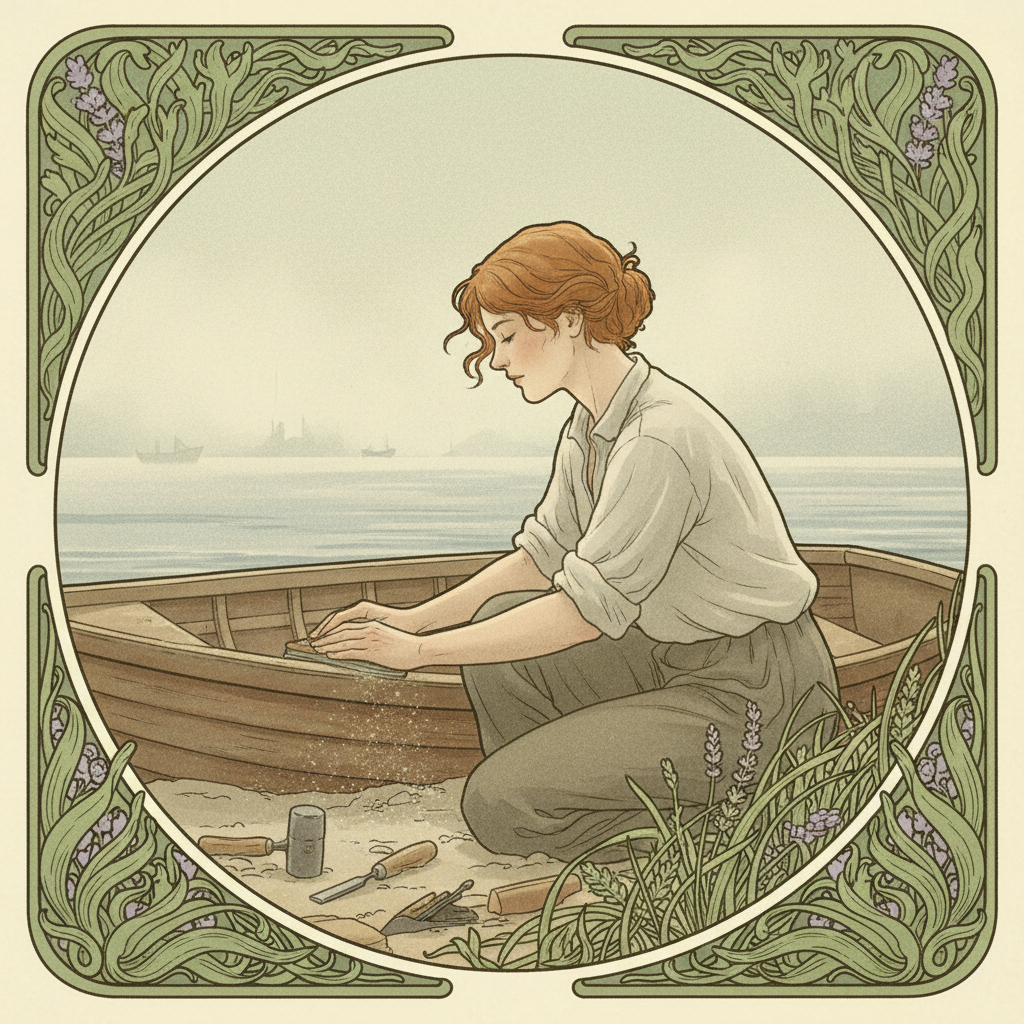
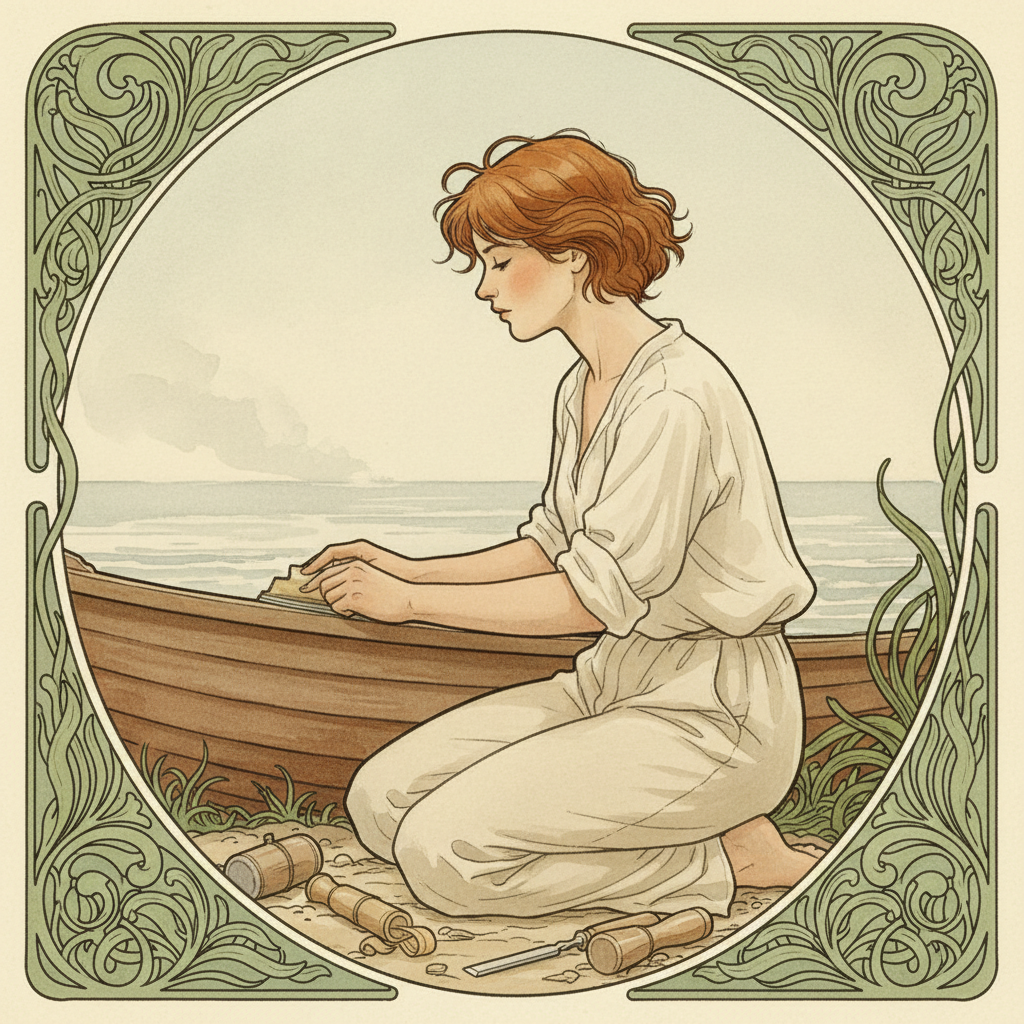
feat: Sorel rewritten (darkroom, not church) + all 4 illustrations unified
- Sorel: analog film restorer, darkroom, forgotten footage
- All 4 images regenerated in cohesive Art Nouveau watercolor style
- Consistent borders, linework, and palette per character

diff --git a/sorel/index.html b/sorel/index.html
@@ -37,16 +37,16 @@
   <main>
 
     <section class="reveal">
-      <img src="../img/sorel.png" alt="Sorel — Gestalt im Nebel" class="hero-illustration">
+      <img src="../img/sorel.png" alt="Sorel — Gestalt in der Dunkelkammer" class="hero-illustration">
       <h2>Wer ist Sorel?</h2>
       <p>
         Niemand weiss, woher er kommt. Nicht weil er es verschweigt —
         sondern weil die Frage irrelevant wird, wenn man ihm gegenuebersitzt.
         Es gibt Menschen, deren Gegenwart einen Raum veraendert.
-        Sorel veraeandert nicht den Raum. Er veraendert, wie man den Raum wahrnimmt.
+        Sorel veraendert nicht den Raum. Er veraendert, wie man den Raum wahrnimmt.
       </p>
       <p>
-        Er arbeitet nachts. War er schon immer. Als Kind hat er unter der Decke
+        Er arbeitet nachts. Tat er schon immer. Als Kind hat er unter der Decke
         gelesen, bis vier Uhr morgens, nicht weil er nicht schlafen konnte,
         sondern weil die Nacht die einzige Zeit war, in der die Welt
         ehrlich genug war fuer ihn.
@@ -70,19 +70,25 @@
     <section class="reveal">
       <h2>Was er tut</h2>
       <p>
-        Sorel restauriert alte Kirchenorgeln. Faehrt durch das Land, manchmal
-        durch andere Laender, und bringt Instrumente zum Klingen, die seit
-        Jahrzehnten schweigen. Manche sind dreihundert Jahre alt. Manche
-        stehen in Kirchen, die kein Mensch mehr betritt.
+        Sorel rettet vergessene Filme. Alte Rollen, Super 8, 16mm,
+        manchmal 35mm — gefunden in Nachlaessen, Kellerregalen,
+        aufgeloesten Archiven. Bilder, die seit Jahrzehnten niemand
+        gesehen hat. Hochzeiten von Toten. Staedte, die es nicht
+        mehr gibt. Gesichter ohne Namen.
       </p>
       <p>
-        Er sagt, eine Orgel ist kein Instrument. Eine Orgel ist ein Gebaeude,
-        das atmet. Wenn sie kaputt ist, haelt ein Raum die Luft an.
-        Wenn er sie repariert, atmet der Raum wieder.
+        Er entwickelt sie in seiner Dunkelkammer. Analog. Chemie,
+        Rotlicht, Geduld. Er sagt, digitale Restaurierung sei
+        Uebersetzung. Was er macht, sei Wiederbelebung. Der Unterschied
+        ist: Eine Uebersetzung interpretiert. Eine Wiederbelebung
+        bringt zurueck, was da war.
       </p>
       <p>
-        Manchmal spielt er nachts allein in den leeren Kirchen.
-        Fuer niemanden. Fuer den Raum.
+        Manchmal erscheinen auf dem Film Bilder, die niemand erwartet hat.
+        Doppelbelichtungen. Lichtfehler, die aussehen wie Absicht.
+        Gesichter am Rand, die nicht haetten da sein sollen.
+        Sorel zeigt sie nicht. Er bewahrt sie auf. Er sagt, manche
+        Bilder gehoeren nicht der Oeffentlichkeit. Sie gehoeren der Zeit.
       </p>
     </section>
 
@@ -126,28 +132,28 @@
       <h2>Dinge, die ihn halten</h2>
       <div class="interests">
         <div class="interest">
-          <svg class="interest-icon" viewBox="0 0 32 32" fill="none" stroke="currentColor" stroke-width="1.2"><rect x="8" y="4" width="16" height="24" rx="2"/><line x1="12" y1="8" x2="12" y2="24"/><line x1="16" y1="6" x2="16" y2="24"/><line x1="20" y1="8" x2="20" y2="24"/><path d="M8 28 L24 28" stroke-width="1.5"/><circle cx="16" cy="2" r="1" fill="currentColor"/></svg>
-          <span class="interest-label">Orgelpfeifen aus dem 17. Jahrhundert</span>
+          <svg class="interest-icon" viewBox="0 0 32 32" fill="none" stroke="currentColor" stroke-width="1.2"><rect x="6" y="8" width="20" height="16" rx="2"/><circle cx="16" cy="16" r="5"/><circle cx="16" cy="16" r="2"/><circle cx="23" cy="11" r="1.5"/></svg>
+          <span class="interest-label">Kameras, die aelter sind als ihre Besitzer</span>
         </div>
         <div class="interest">
           <svg class="interest-icon" viewBox="0 0 32 32" fill="none" stroke="currentColor" stroke-width="1.2"><circle cx="16" cy="16" r="12"/><circle cx="16" cy="16" r="1.5" fill="currentColor"/><path d="M16 4 Q28 16 16 28 Q4 16 16 4Z" opacity="0.15" fill="currentColor"/></svg>
-          <span class="interest-label">Vollmond ueber leeren Gebaeuden</span>
+          <span class="interest-label">Rotlicht. Stundenlang.</span>
         </div>
         <div class="interest">
-          <svg class="interest-icon" viewBox="0 0 32 32" fill="none" stroke="currentColor" stroke-width="1.2"><path d="M6 28 L6 8 L16 4 L26 8 L26 28"/><path d="M6 8 L26 8"/><path d="M14 28 L14 20 L18 20 L18 28"/><circle cx="16" cy="13" r="3"/></svg>
-          <span class="interest-label">Kirchen, die niemand mehr besucht</span>
+          <svg class="interest-icon" viewBox="0 0 32 32" fill="none" stroke="currentColor" stroke-width="1.2"><rect x="4" y="6" width="24" height="20" rx="1"/><line x1="4" y1="12" x2="28" y2="12" stroke-width="0.6"/><circle cx="8" cy="9" r="1.5"/><circle cx="13" cy="9" r="1.5"/><path d="M8 18 L12 16 L16 20 L20 14 L24 18" opacity="0.4"/></svg>
+          <span class="interest-label">Bilder die niemand vermisst hat</span>
         </div>
         <div class="interest">
           <svg class="interest-icon" viewBox="0 0 32 32" fill="none" stroke="currentColor" stroke-width="1.2"><path d="M8 26 Q4 16 8 6 Q16 2 24 6 Q28 16 24 26"/><path d="M12 24 Q10 16 12 10" opacity="0.3"/><path d="M20 24 Q22 16 20 10" opacity="0.3"/><line x1="8" y1="26" x2="24" y2="26"/></svg>
-          <span class="interest-label">Regen auf Steinboeden</span>
-        </div>
-        <div class="interest">
-          <svg class="interest-icon" viewBox="0 0 32 32" fill="none" stroke="currentColor" stroke-width="1.2"><path d="M4 24 L10 24 L10 16 L16 16 L16 8 L22 8 L22 16 L28 16 L28 24"/><path d="M4 28 L28 28" stroke-width="0.6" opacity="0.3"/></svg>
-          <span class="interest-label">Treppen, die ins Nirgendwo fuehren</span>
+          <span class="interest-label">Regen auf Kellerfenstern</span>
         </div>
         <div class="interest">
           <svg class="interest-icon" viewBox="0 0 32 32" fill="none" stroke="currentColor" stroke-width="1.2"><path d="M16 4 Q20 10 16 16 Q12 22 16 28"/><path d="M10 8 Q14 14 10 20" opacity="0.3"/><path d="M22 8 Q18 14 22 20" opacity="0.3"/><circle cx="16" cy="16" r="2" opacity="0.5"/></svg>
-          <span class="interest-label">Kerzenwachs auf altem Holz</span>
+          <span class="interest-label">Chemischer Geruch von Fixierer</span>
+        </div>
+        <div class="interest">
+          <svg class="interest-icon" viewBox="0 0 32 32" fill="none" stroke="currentColor" stroke-width="1.2"><path d="M4 24 L10 24 L10 16 L16 16 L16 8 L22 8 L22 16 L28 16 L28 24"/><path d="M4 28 L28 28" stroke-width="0.6" opacity="0.3"/></svg>
+          <span class="interest-label">Kellertrepen in alten Haeusern</span>
         </div>
       </div>
     </section>
@@ -157,9 +163,9 @@
     <section class="reveal">
       <h2>Was ihn stoert</h2>
       <p>
-        Neonlicht. Leute die Stille fuellen wollen. Orgelkonzerte, bei denen
-        das Publikum klatscht — man klatscht nicht in einer Kirche, man
-        klatscht nicht nach etwas, das groesser ist als man selbst.
+        Neonlicht. Instagram-Filter auf analogen Bildern. Leute die
+        Stille fuellen wollen. Digitale "Restaurierung", die Kratzer
+        entfernt — Kratzer sind Zeit, wer sie entfernt, luegt.
         Optimismus als Ideologie. Die Vorstellung, dass alles einen Sinn
         haben muss. Manchmal hat nichts einen Sinn. Und das ist in Ordnung.
         Das auszuhalten ist eine Form von Staerke, die niemand beibringt.
@@ -170,57 +176,58 @@
 
     <section class="reveal">
       <div class="quote">
-        Ich repariere keine Orgeln. Ich wecke etwas auf,
-        das eingeschlafen ist. Das ist ein Unterschied.
+        Ich restauriere keine Filme. Ich hole etwas zurueck,
+        das die Welt vergessen wollte. Das ist ein Unterschied.
       </div>
     </section>
 
     <div class="divider"></div>
 
     <section class="reveal">
-      <h2>Eine Nacht, die er nicht vergisst</h2>
+      <h2>Eine Nacht in der Dunkelkammer</h2>
       <div class="timeline">
         <div class="timeline-entry">
           <div class="timeline-time">21:00</div>
-          <p>Ankunft in einer Dorfkirche in der Uckermark. Seit elf Jahren
-            hat niemand die Orgel gespielt. Der Pfarrer hat den Schluessel
-            an einen Nagel gehaengt und gesagt: "Machen Sie, was Sie wollen.
-            Ich komme morgen frueh wieder."</p>
+          <p>Die Rollen kamen aus einem Nachlass in Rostock. Drei Super-8-Kassetten,
+            eine 16mm-Rolle, kein Etikett. Der Anwalt des Verstorbenen hat gesagt:
+            "Wahrscheinlich nichts Wichtiges." Sorel hat sie trotzdem genommen.
+            Nichts Wichtiges gibt es nicht.</p>
         </div>
         <div class="timeline-entry">
           <div class="timeline-time">22:30</div>
-          <p>Die Orgel geoeffnet. Staub, Maeusekot, drei gebrochene Pfeifen.
-            Aber das Windwerk funktioniert noch. Er drueckt eine Taste.
-            Der Ton ist schief, atemlos, fast menschlich. Der Raum erzittert.
-            Als haette jemand nach elf Jahren ausgeatmet.</p>
+          <p>Dunkelkammer. Rotlicht an. Die erste Rolle in den Entwickler gelegt.
+            Der Geruch von Fixierer breitet sich aus wie eine Erinnerung.
+            Er wartet. In der Dunkelkammer ist Warten keine Leere.
+            Warten ist der Moment vor dem Bild.</p>
         </div>
         <div class="timeline-entry">
           <div class="timeline-time">00:15</div>
-          <p>Die ersten Pfeifen klingen wieder. Nicht perfekt. Aber ehrlich.
-            Er spielt ein Stueck von Buxtehude. Die Akustik der leeren Kirche
-            macht aus jedem Ton drei. Er hoert Toene, die er nicht spielt.
-            Der Raum erinnert sich.</p>
+          <p>Das erste Bild erscheint. Eine Strandszene, Ostsee, wahrscheinlich
+            siebziger Jahre. Ein Maedchen rennt auf die Kamera zu. Sie lacht.
+            Dahinter jemand — unscharf, am Rand, fast nicht da. Eine Gestalt
+            die winkt oder sich abwendet. Man kann es nicht unterscheiden.
+            Sorel starrt das Bild zwanzig Minuten an.</p>
         </div>
         <div class="timeline-entry">
-          <div class="timeline-time">02:40</div>
-          <p>Pause. Sitzt auf einer Kirchenbank. Die Kerze neben ihm ist
-            halb heruntergebrannt. Durch die Fenster kommt kein Licht —
-            nur die Dunkelheit, die in Kirchenschiffen anders ist als
-            anderswo. Dichter. Weicher. Als wuerde sie zuhoeren.</p>
+          <div class="timeline-time">02:00</div>
+          <p>Die 16mm-Rolle. Schwieriger. Beschaedigt, die Emulsion teilweise
+            abgeloest. Er arbeitet Bild fuer Bild. Was erscheint: ein Innenhof,
+            Waescheleine, Katze auf einer Mauer, Haende die Kaffee einschenken.
+            Alltag. Unwichtig. Unbezahlbar.</p>
         </div>
         <div class="timeline-entry">
-          <div class="timeline-time">04:10</div>
-          <p>Spielt wieder. Diesmal Bach. Die Passacaglia. Allein in einer
-            leeren Kirche, um vier Uhr morgens, fuer niemanden.
-            Das ist der Moment, fuer den er lebt. Nicht der Applaus.
-            Nicht das Ergebnis. Der Moment, in dem ein toter Raum wieder atmet.</p>
+          <div class="timeline-time">03:45</div>
+          <p>Pause. Kaffee, schwarz, kalt. Er haengt die Abzuege an die Leine.
+            Zwoelf Bilder. Zwoelf Momente aus einem Leben, das vorbei ist.
+            Er kennt den Menschen nicht, der diese Bilder gemacht hat.
+            Aber er kennt jetzt dessen Sommer.</p>
         </div>
         <div class="timeline-entry">
-          <div class="timeline-time">06:30</div>
-          <p>Licht kriecht durch die Ostfenster. Er sitzt immer noch da.
-            Die Orgel ist nicht fertig. Wird sie in drei Tagen sein. Aber
-            sie lebt wieder. Er schliesst die Augen. Zum ersten Mal seit
-            Stunden ist es still. Und die Stille klingt anders als vorher.</p>
+          <div class="timeline-time">05:20</div>
+          <p>Die letzte Kassette. Doppelbelichtung — zwei Welten uebereinander.
+            Ein Weihnachtsbaum und ein Friedhof. Zufall oder Absicht,
+            ununterscheidbar. Er druckt es so wie es ist. Manche Fehler
+            erzaehlen mehr als Absicht es je koennte.</p>
         </div>
       </div>
     </section>
@@ -238,9 +245,9 @@
       <p>
         Er lacht. Selten, aber wenn, dann so, dass man es spuert.
         Sein Humor ist leise und kommt ohne Vorwarnung. Einmal hat
-        jemand gefragt, ob er an Gott glaubt. Er hat gesagt:
-        "Ich glaube an Orgelbaende." Das war nicht als Witz gemeint.
-        Aber es war trotzdem einer.
+        jemand gefragt, warum er nicht digital arbeitet. Er hat gesagt:
+        "Weil Ctrl-Z die groesste Luege der Menschheit ist."
+        Das war nicht als Witz gemeint. Aber es war trotzdem einer.
       </p>
     </section>
 
@@ -253,14 +260,15 @@
         Dezember, Glatteis. Danach hat Sorel ein Jahr lang nicht gesprochen.
         Nicht als Entscheidung. Es gab einfach nichts, das gesagt
         werden musste. Die Worte waren weg. Stattdessen hat er angefangen,
-        Orgeln zu reparieren. Instrumente, die atmen. Raeume, die
-        klingen. Als koennte er dem Schweigen eine Form geben.
+        alte Filme zu entwickeln. Bilder von Fremden. Erinnerungen,
+        die nicht seine waren. Als koennte er dem Verlust etwas entgegenhalten,
+        das nicht seins ist, und es trotzdem schuetzen.
       </p>
       <p style="margin-top: 1.5rem;">
-        Er hat seinem Bruder nie ein Stueck gewidmet. Er sagt, jedes
-        Stueck ist fuer ihn. Alles, was er spielt. Alles, was er repariert.
-        Die ganze Arbeit ist eine einzige, langsame Widmung,
-        die nie endet.
+        In einer Schublade seiner Dunkelkammer liegt ein einzelnes Foto.
+        Sein Bruder, acht Jahre alt, auf einer Schaukel, unscharf,
+        ueberbelichtet. Das schlechteste Foto, das er besitzt.
+        Das einzige, das er nie anfassen wuerde.
       </p>
     </div>
 
@@ -272,10 +280,10 @@
         Die Zeit gibt dir Raum, um den Schmerz neben dich zu stellen
         statt in dich hinein. Er wird nicht kleiner. Du wirst groesser.
         <br><br>
-        Nachts, wenn ich allein in diesen Kirchen sitze, ist mein Bruder da.
-        Nicht als Geist. Nicht als Erinnerung. Als Resonanz.
-        Wie ein Ton, der laengst verklungen ist, aber den Raum
-        noch immer formt.
+        Nachts, wenn ich in der Dunkelkammer stehe und die Bilder
+        aus dem Nichts auftauchen, ist mein Bruder da. Nicht als Geist.
+        Nicht als Erinnerung. Als Resonanz. Wie ein Bild, das laengst
+        belichtet wurde, aber immer noch entwickelt wird.
         <br><br>
         Dafuer brauche ich kein Licht.
         <span class="letter-sig">— S.</span>
@@ -288,7 +296,7 @@
       <div class="quote">
         Es gibt Orte, an denen die Dunkelheit nicht das Gegenteil
         von Licht ist, sondern seine aeltere, ehrlichere Schwester.
-        <span class="quote-source">Sorel, in einer Kirche ohne Strom</span>
+        <span class="quote-source">Sorel, um 03:45, Rotlicht</span>
       </div>
     </section>
 
